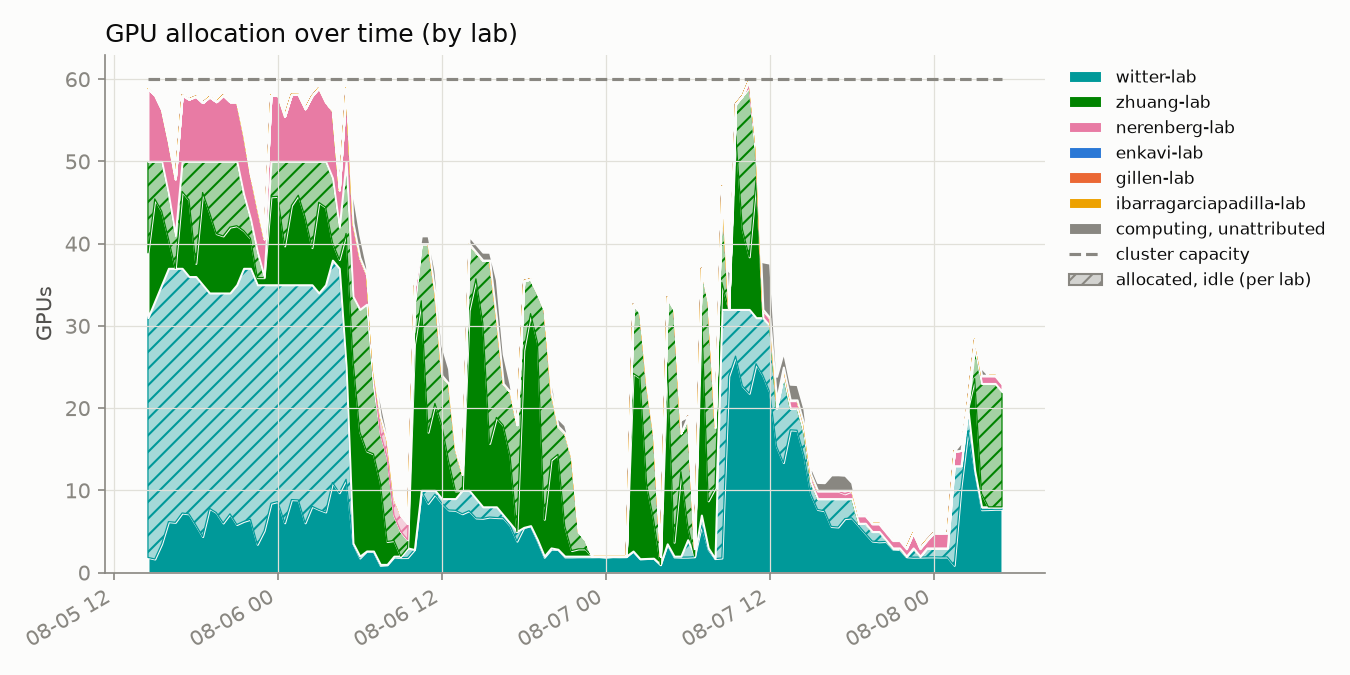
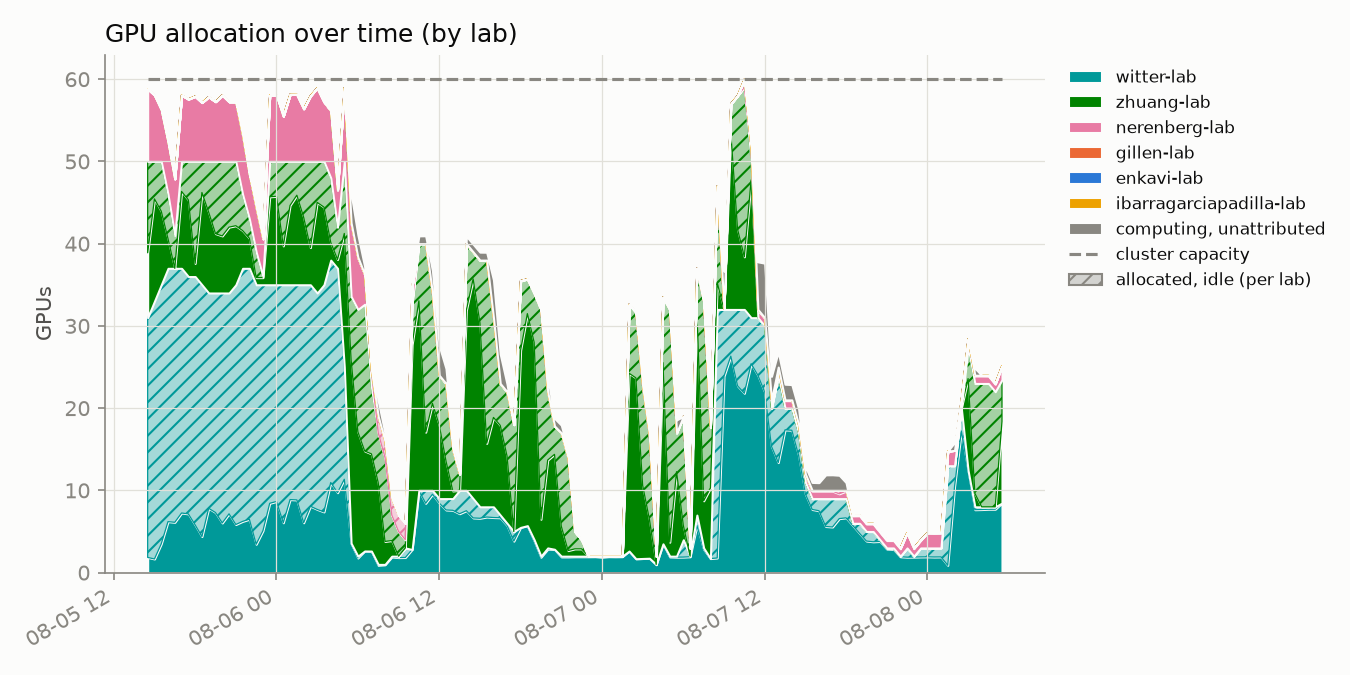
update 2026-08-08T05:30:01-07:00

diff --git a/README.md b/README.md
@@ -2,8 +2,8 @@
 
 Automated GPU/CPU/queue utilization tracker for `hopper.cluster`, updated every 30 minutes by cron. Usernames are anonymized to a stable per-account pseudonym; lab names are real.
 
-Last updated: 2026-08-08T05:00:14-07:00
-Samples: 126 queue snapshots, 126 GPU snapshots
+Last updated: 2026-08-08T05:30:13-07:00
+Samples: 127 queue snapshots, 127 GPU snapshots
 
 ## Resources
 
@@ -16,25 +16,25 @@ Samples: 126 queue snapshots, 126 GPU snapshots
 
 ## Headline
 
-- **45.8%** of the cluster's 60 GPUs allocated, averaged across all samples
-- **46.8%** average `nvidia-smi` utilization *when* a GPU is allocated to a job
+- **45.7%** of the cluster's 60 GPUs allocated, averaged across all samples
+- **47.1%** average `nvidia-smi` utilization *when* a GPU is allocated to a job
 - **87.7%** average cgroup CPU utilization *when* a CPU is allocated to a job
 
 ## Per lab / per user
 
 <table>
 <tr><th>Lab</th><th>User</th><th align='right'>GPU-hours allocated</th><th align='right'>CPU-hours allocated</th><th align='right'>GPU utilization</th></tr>
-<tr style='background-color:#d8ecd8'><td>zhuang-lab</td><td>user-0db9ced0</td><td align='right'>759.0</td><td align='right'>759.0</td><td align='right'>47%</td></tr>
+<tr style='background-color:#d8ecd8'><td>zhuang-lab</td><td>user-0db9ced0</td><td align='right'>766.5</td><td align='right'>766.5</td><td align='right'>47%</td></tr>
 <tr style='background-color:#d8efef'><td>witter-lab</td><td>user-d58f5a15</td><td align='right'>467.5</td><td align='right'>3740.0</td><td align='right'>9%</td></tr>
-<tr style='background-color:#d8efef'><td>witter-lab</td><td>user-554c620c</td><td align='right'>444.0</td><td align='right'>961.5</td><td align='right'>66%</td></tr>
+<tr style='background-color:#d8efef'><td>witter-lab</td><td>user-554c620c</td><td align='right'>448.0</td><td align='right'>965.5</td><td align='right'>66%</td></tr>
 <tr style='background-color:#fbebf1'><td>nerenberg-lab</td><td>user-6bb5f332</td><td align='right'>40.0</td><td align='right'>200.0</td><td align='right'>71%</td></tr>
-<tr style='background-color:#fbebf1'><td>nerenberg-lab</td><td>user-fedb5feb</td><td align='right'>19.0</td><td align='right'>50.5</td><td align='right'>68%</td></tr>
+<tr style='background-color:#fbebf1'><td>nerenberg-lab</td><td>user-fedb5feb</td><td align='right'>19.5</td><td align='right'>51.0</td><td align='right'>69%</td></tr>
 <tr style='background-color:#fbebf1'><td>nerenberg-lab</td><td>user-b12dc074</td><td align='right'>0.0</td><td align='right'>16.0</td><td align='right'>—</td></tr>
-<tr style='background-color:#fcf0d8'><td>ibarragarciapadilla-lab</td><td>user-dad71a72</td><td align='right'>0.0</td><td align='right'>6.0</td><td align='right'>—</td></tr>
-<tr style='background-color:#fce8e0'><td>gillen-lab</td><td>user-b89a87ef</td><td align='right'>0.0</td><td align='right'>468.0</td><td align='right'>—</td></tr>
-<tr style='background-color:#fcf0d8'><td>ibarragarciapadilla-lab</td><td>user-eec7ffae</td><td align='right'>0.0</td><td align='right'>426.5</td><td align='right'>—</td></tr>
 <tr style='background-color:#dfeaf8'><td>enkavi-lab</td><td>user-c21bdaa4</td><td align='right'>0.0</td><td align='right'>171.0</td><td align='right'>—</td></tr>
-<tr style='background-color:#fcf0d8'><td>ibarragarciapadilla-lab</td><td>user-3cfc41a3</td><td align='right'>0.0</td><td align='right'>3870.0</td><td align='right'>—</td></tr>
+<tr style='background-color:#fcf0d8'><td>ibarragarciapadilla-lab</td><td>user-3cfc41a3</td><td align='right'>0.0</td><td align='right'>3877.5</td><td align='right'>—</td></tr>
+<tr style='background-color:#fce8e0'><td>gillen-lab</td><td>user-b89a87ef</td><td align='right'>0.0</td><td align='right'>504.0</td><td align='right'>—</td></tr>
+<tr style='background-color:#fcf0d8'><td>ibarragarciapadilla-lab</td><td>user-eec7ffae</td><td align='right'>0.0</td><td align='right'>426.5</td><td align='right'>—</td></tr>
+<tr style='background-color:#fcf0d8'><td>ibarragarciapadilla-lab</td><td>user-dad71a72</td><td align='right'>0.0</td><td align='right'>6.0</td><td align='right'>—</td></tr>
 </table>
 
 ## Usage over time
@@ -45,7 +45,7 @@ Samples: 126 queue snapshots, 126 GPU snapshots
 
 Solid = utilized by lab, hatched = allocated but idle, gray = usage not traceable to a lab, dashed line = cluster capacity.
 
-Attribution combines `nvidia-smi`'s process listing with Slurm's GPU-to-job binding record; the latter caught **2547** readings the former missed.
+Attribution combines `nvidia-smi`'s process listing with Slurm's GPU-to-job binding record; the latter caught **2558** readings the former missed.
 
 ## Queue
 
@@ -57,13 +57,13 @@ Attribution combines `nvidia-smi`'s process listing with Slurm's GPU-to-job bind
 
 ![CPU usage vs GPU usage, decayed](assets/cpu_gpu_usage.png)
 
-One point per user per snapshot (n=607), usage decayed on Slurm's ~7-day fairshare half-life.
+One point per user per snapshot (n=612), usage decayed on Slurm's ~7-day fairshare half-life.
 
 **GPU usage doesn't count toward priority on this cluster** (`TRESBillingWeights`/`PriorityWeightTRES` unset) - watch the **upper-left**: low CPU usage (high priority) with high GPU usage.
 
 ## Recommendations
 
-1. **Weight GPU usage in fairshare.** `TRESBillingWeights` and `PriorityWeightTRES` are both unset right now, so Slurm's fairshare score only sees CPU-seconds - a job holding 4 idle L40S GPUs costs nothing in priority as long as it isn't also holding CPUs. That's the exact failure mode the scatter above is built to catch (upper-left: low CPU usage, high GPU usage). Fix: `scontrol update partition=main TRESBillingWeights=CPU=1.0,GRES/gpu=<weight>` (or set `PriorityWeightTRES` cluster-wide), then `scontrol reconfigure` - a full `slurmctld` restart also works but drops in-flight priority state. A reasonable starting point for `<weight>` is the CPUs-per-GPU ratio on a GPU node (128 CPUs / 4 GPUs = 32), so one GPU costs as much fairshare as the CPU share it displaces; tune from there against next week's headline numbers (45.8% allocated, 46.8% utilized when allocated, as of this snapshot). The weight value itself is a policy call - loop in whoever owns cluster allocation policy before changing it.
+1. **Weight GPU usage in fairshare.** `TRESBillingWeights` and `PriorityWeightTRES` are both unset right now, so Slurm's fairshare score only sees CPU-seconds - a job holding 4 idle L40S GPUs costs nothing in priority as long as it isn't also holding CPUs. That's the exact failure mode the scatter above is built to catch (upper-left: low CPU usage, high GPU usage). Fix: `scontrol update partition=main TRESBillingWeights=CPU=1.0,GRES/gpu=<weight>` (or set `PriorityWeightTRES` cluster-wide), then `scontrol reconfigure` - a full `slurmctld` restart also works but drops in-flight priority state. A reasonable starting point for `<weight>` is the CPUs-per-GPU ratio on a GPU node (128 CPUs / 4 GPUs = 32), so one GPU costs as much fairshare as the CPU share it displaces; tune from there against next week's headline numbers (45.7% allocated, 47.1% utilized when allocated, as of this snapshot). The weight value itself is a policy call - loop in whoever owns cluster allocation policy before changing it.
 
 2. **Escalate on sustained low utilization** (see table and scatter above). Right now the clearest candidate is `user-d58f5a15` in `witter-lab`: 467.5 GPU-hours allocated at 9% average utilization, i.e. roughly 424 GPU-hours that sat idle instead of going to someone in the queue. Turning that into an automated escalation needs two decisions made up front: a utilization threshold (something like under 20% mean utilization over at least 50 allocated GPU-hours is a defensible starting bar - loose enough to skip short debugging runs, tight enough to catch parked allocations) and a grace period (how many consecutive low-utilization snapshots before it counts as "sustained" rather than a momentary lull between batches). Once those are set, the mechanism can be either soft (a bot that reads `data/gpu_samples.jsonl` and reminds the user/lab by email or Slack) or hard (a Slurm-side QOS penalty, e.g. `sacctmgr modify qos <qos> set Priority-=<n>`, applied after N consecutive offending snapshots). Neither exists yet - today the table and scatter above are a read-only signal, not an enforced policy.
 
